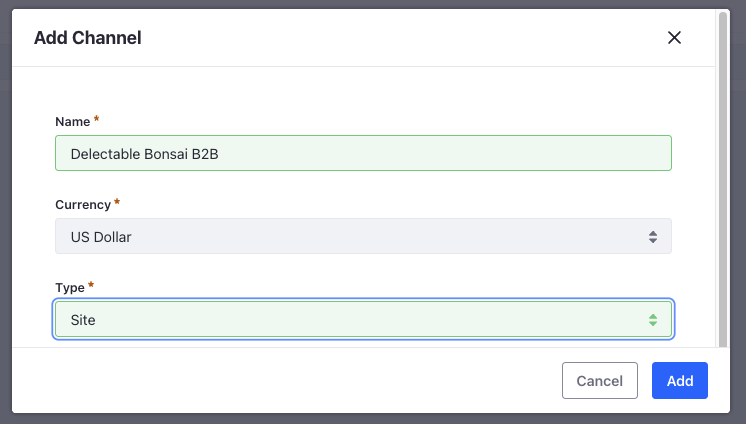
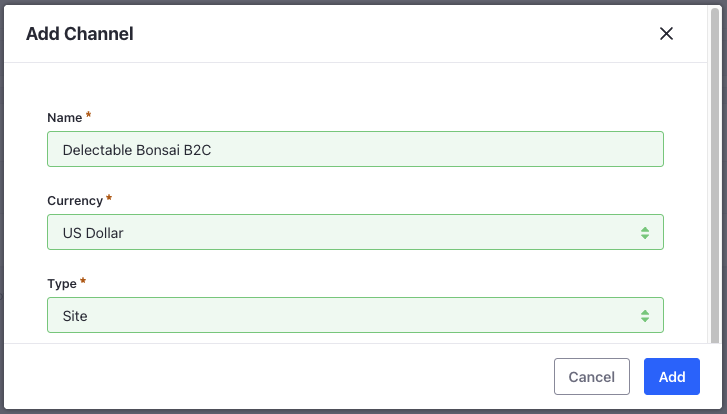
LRDOCS-12075 more changes

diff --git a/docs/courses/latest/en/commerce-architect/setting-up-and-creating-products/creating-and-configuring-channels.md b/docs/courses/latest/en/commerce-architect/setting-up-and-creating-products/creating-and-configuring-channels.md
@@ -3,7 +3,7 @@ uuid: 988eaa6e-32e7-4517-b9df-e98a80c8dd4e
 ---
 # Creating and Configuring Channels
 
-A channel is a place where you sell products. In Liferay, you must link a channel to a site to be able to sell products on that site. Delectable Bonsai operates two online stores, one for B2B customers and one for B2C customers. To support this, you must create two channels and link them to their corresponding sites. 
+A channel is a place where you sell products. In Liferay, you must link a channel to a site to be able to sell products on that site. Delectable Bonsai operates two online stores, one for B2C customers and one for B2B customers. To support this, you must create two channels and link them to their corresponding sites. 
 
 To create a channel,
 
@@ -11,7 +11,7 @@ To create a channel,
 
 1. Click the *Add* (![Add](../../images/icon-add.png)) button and enter the following details:
 
-   **Name:** Delectable Bonsai B2B
+   **Name:** Delectable Bonsai B2C
 
    **Currency:** USD
 
@@ -21,21 +21,53 @@ To create a channel,
 
 1. Click *Add*.
 
-This creates a new channel for the B2B store. You must now link it to a Liferay site and configure the channel. 
+This creates a new channel for the B2C store. Repeat the steps to create a B2B channel with the following information. 
 
-## Configuring the Channel
+| Name                  | Currency | Type |
+| :-------------------- | :------- | :--- |
+| Delectable Bonsai B2B | USD      | Site |
 
-For the B2B channel, we’ll configure a payment method, shipping method, and ensure that the site type is set to B2B. 
+After creating both the channels, you must link them to the corresponding Liferay sites and configure them. 
 
-In the *Details* section, ensure the *Commerce Site Type* is set to *B2B* for the B2B channel. When the site type is B2B, every account in the site must be a business account. Select the *Type* tab, and click *Select Site*. Choose the *Delectable Bonsai B2B* site and click *Save*. You can now use this channel to accept customer orders from your site. 
+## Configuring the B2C Channel
+
+For the B2C channel, we’ll configure a payment method, shipping method, and ensure that the site type is set to B2C. In the *Details* section, set the *Commerce Site Type* to *B2C*. When the site type is B2C, every account in the site must be a personal account. Select the *Type* tab, and click *Select Site*. Choose the *Delectable Bonsai B2C* site and click *Save*. You can now use this channel to accept customer orders from your site. 
 
 ```{note}
-For the B2C channel, you must set the *Commerce Site Type* as *B2C*. There’s also a B2X type that permits both personal and business accounts. See [Site Types](https://learn.liferay.com/web/guest/w/commerce/starting-a-store/sites-and-site-types#site-types) for more information. You can also use [Liferay’s accelerators](https://learn.liferay.com/web/guest/w/commerce/starting-a-store/accelerators) to jumpstart your online store. 
+There’s also a B2X type that permits both personal and business accounts. See [Site Types](https://learn.liferay.com/web/guest/w/commerce/starting-a-store/sites-and-site-types#site-types) for more information. You can also use [Liferay’s accelerators](https://learn.liferay.com/web/guest/w/commerce/starting-a-store/accelerators) to jumpstart your online store. 
 ```
+
+Delectable Bonsai offers their B2C customers an option to pay by PayPal. Customer orders are shipped using a flat rate shipping method. You can use Liferay’s out-of-the-box payment and shipping methods to implement both of these. 
+
+To add PayPal as a payment method, follow the instructions [here](https://learn.liferay.com/web/guest/w/commerce/store-management/configuring-payment-methods/paypal).
+
+### Configuring Flat Rate Shipping Method
+
+1. Go to the *Shipping Methods* section and select *Flat Rate*.
+
+1. Activate it using the toggle.
+
+1. Click *Save*.
+
+1. Go to the *Shipping Options* page, click the *Add* (![Add](../../images/icon-add.png)) button.
+
+1. Enter the name as *Regular Shipping* and amount as *$9.99*.
+
+1. Click *Save*.
+
+1. Click the *Add* (![Add](../../images/icon-add.png)) button once more.
+
+1. Enter the name as *Express Shipping* and amount as *$12.99*.
+
+1. Click *Save*.
+
+## Configuring the B2B Channel
+
+For the B2B channel, we’ll configure a payment method, shipping method, and ensure that the site type is set to B2B. In the *Details* section, set the *Commerce Site Type* to *B2B*. When the site type is B2B, every account in the site must be a business account. Select the *Type* tab, and click *Select Site*. Choose the *Delectable Bonsai B2B* site and click *Save*. 
 
 Delectable Bonsai offers their B2B customers an option to pay by money order. They ship using a variable shipping rate that's calculated based on the weight of the shipment. You can use Liferay’s out-of-the-box payment and shipping methods to implement both of these. 
 
-### Configuring a Payment Method
+### Configuring Money Order
 
 1. Go to the *Payment Methods* section and select *Money Order*.
 
@@ -45,7 +77,7 @@ Delectable Bonsai offers their B2B customers an option to pay by money order. Th
 
    We want this to be eligible for all order types. If you want a specific message page to appear during checkout, go to the *Configuration* tab and enable the message page. You can also customize the message that appears in this checkout step. 
 
-### Configuring a Shipping Method
+### Configuring Variable Rate Shipping Method
 
 1. Now, go to the *Shipping Methods* section and select *Variable Rate*.
 

diff --git a/docs/courses/latest/en/commerce-architect/setting-up-and-creating-products/creating-products.md b/docs/courses/latest/en/commerce-architect/setting-up-and-creating-products/creating-products.md
@@ -39,13 +39,13 @@ Let's add some basic details for the product.
 
 1. Navigate to the *Configuration* tab and enter the following values in the *Shipping* card.
 
-   **Width:** 4
+   **Width:** 2
 
    **Height:** 6
 
-   **Depth:** 4
+   **Depth:** 1.5
 
-   **Weight:** 0.5
+   **Weight:** 0.22
 
 1. Disable *Free Shipping* and *Ship Separately*.
 
@@ -61,9 +61,9 @@ Let's add some basic details for the product.
 
 This publishes the product with some basic details. Now, create two more products using the following information. Enable or disable the same toggles as with the product created earlier. 
 
-| Product Name                   | Catalog            | Category | SKU     | Dimensions                    | Weight | Maximum Order Quantity | Low Stock Action   |
-| :----------------------------- | :----------------- | :------- | :------ | :---------------------------- | :----- | ---------------------- | ------------------ |
-| Sap Infused Orange Maple Syrup | DB Product Catalog | Syrup    | DBSY002 | Width: 4, Height: 6, Depth: 4 | 0.5    | 10                     | Set as Unpublished |
-| Sap Infused Honey Maple Syrup  | DB Product Catalog | Syrup    | DBSY003 | Width: 4, Height: 6, Depth: 4 | 0.5    | 10                     | Set as Unpublished |
+| Product Name                   | Catalog            | Category | SKU     | Dimensions                      | Weight | Maximum Order Quantity | Low Stock Action   |
+| :----------------------------- | :----------------- | :------- | :------ | :------------------------------ | :----- | ---------------------- | ------------------ |
+| Sap Infused Orange Maple Syrup | DB Product Catalog | Syrup    | DBSY002 | Width: 2, Height: 6, Depth: 1.5 | 0.22   | 10                     | Set as Unpublished |
+| Sap Infused Honey Maple Syrup  | DB Product Catalog | Syrup    | DBSY003 | Width: 2, Height: 6, Depth: 1.5 | 0.22   | 10                     | Set as Unpublished |
 
 In the next module, we’ll configure the products and its SKUs, add inventory, prices, and other necessary information to enrich the storefront experience.
